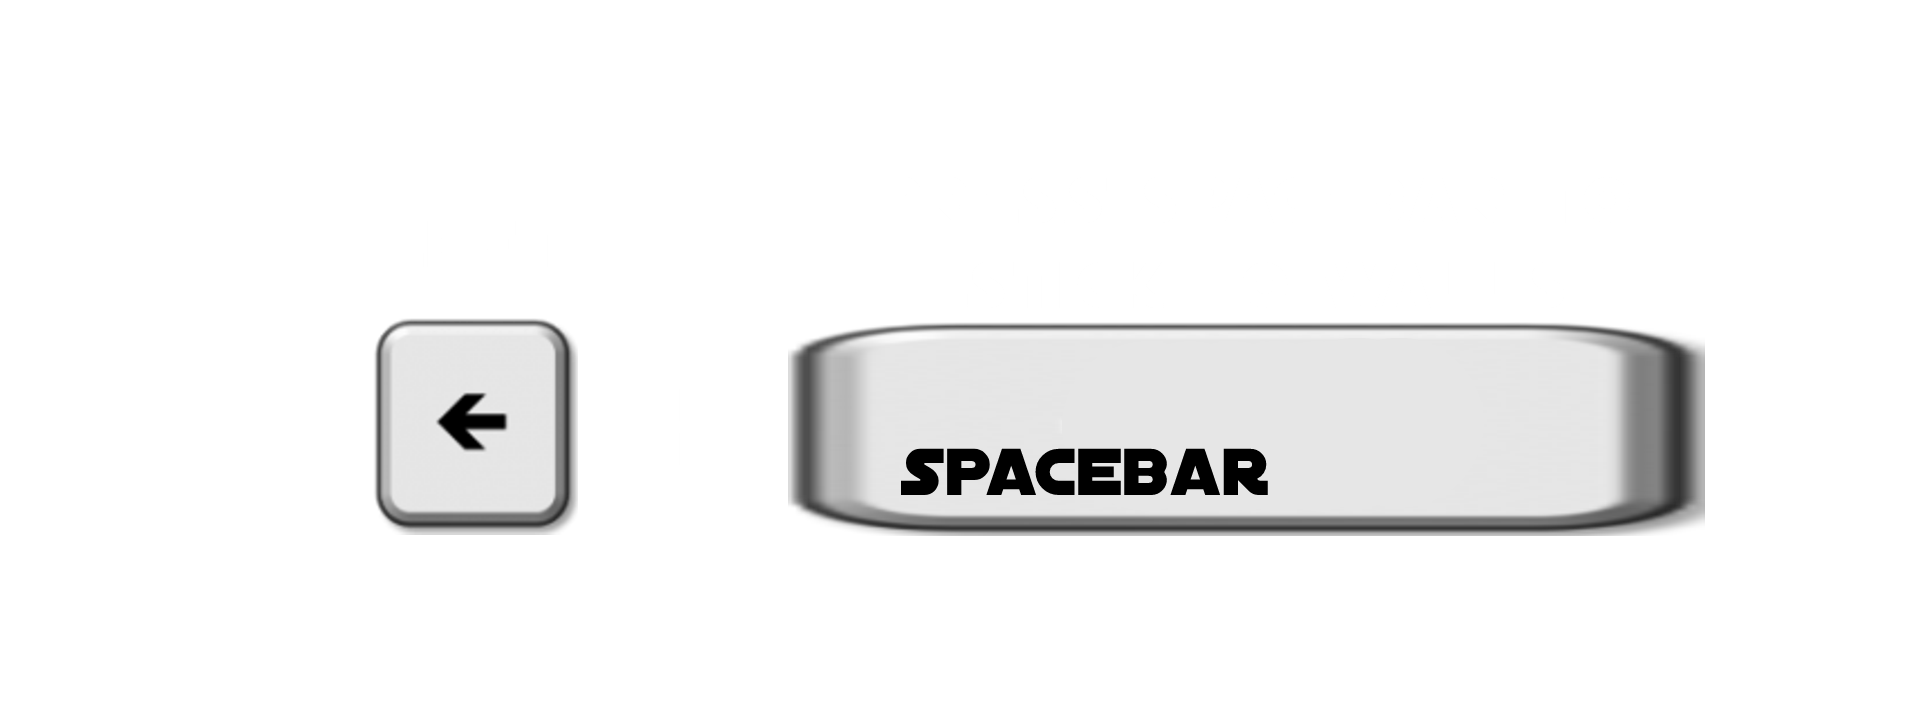
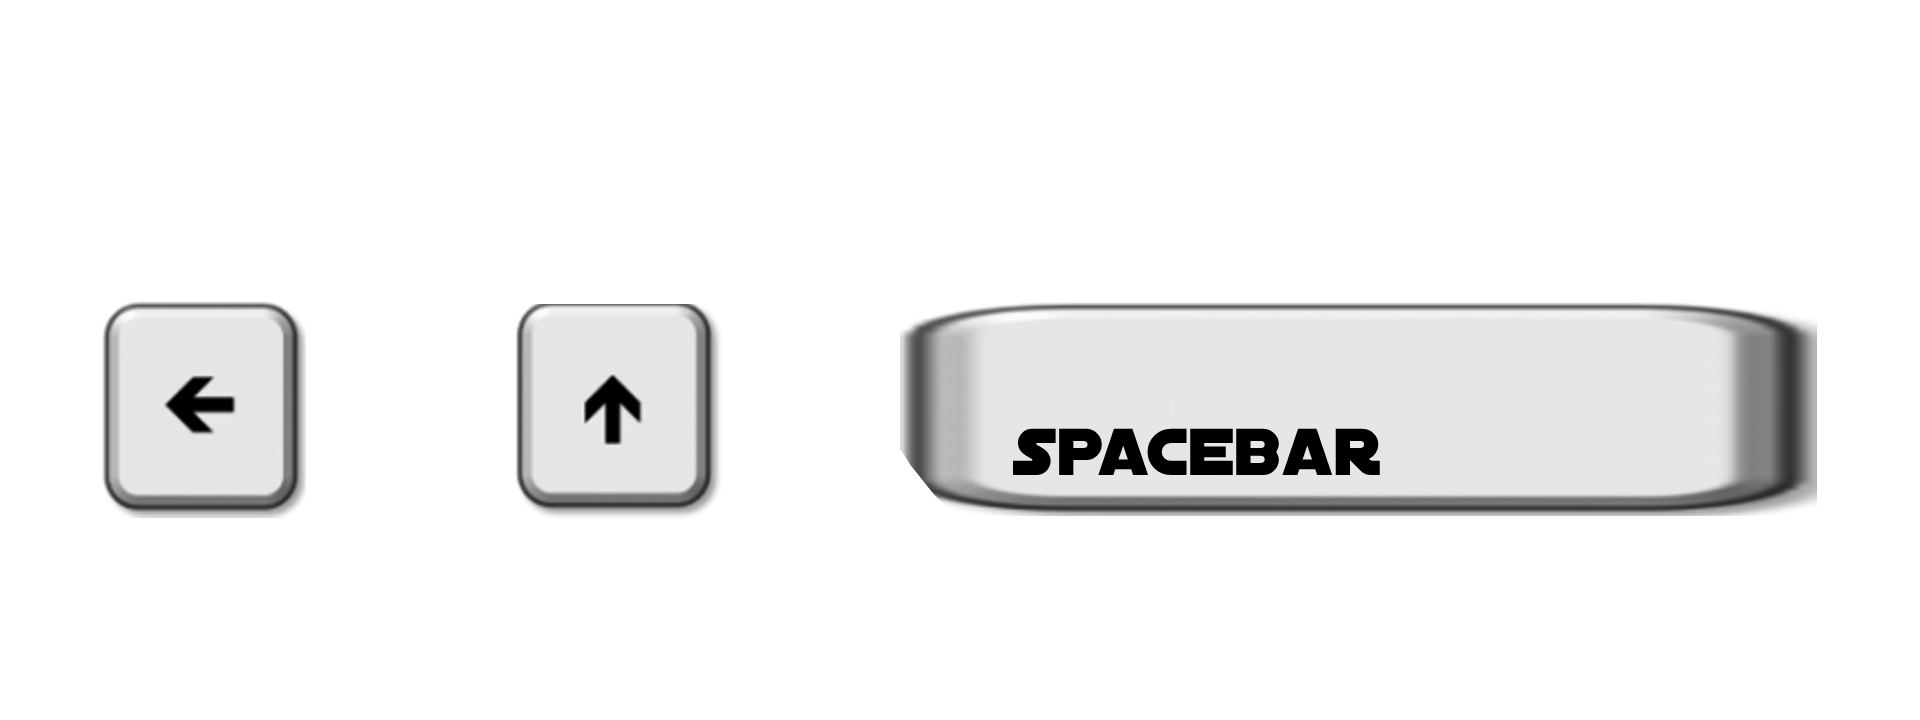
changes to tutorial level

Changed region(s): [[0.4062, 0.3972, 0.9688, 0.7639], [0.1875, 0.3972, 0.375, 0.7639], [0.0312, 0.3972, 0.1562, 0.7333]]

diff --git a/scripts/tutorial.js b/scripts/tutorial.js
@@ -37,6 +37,16 @@ preload(){
         this.load.image('spacebarInstructionsRight','assets/spacebarInstructionsRight.png');
         this.load.image('spacebarMoveUpInstructions','assets/spacebarMoveUpInstructions.png');
         this.load.image('dustBunnyInstructions','assets/dustBunnyInstructions.png');
+        this.load.image('num1','assets/num1.png');
+        this.load.image('num2','assets/num2.png');
+        this.load.image('num3','assets/num3.png');
+        this.load.image('num4','assets/num4.png');
+        this.load.image('num5','assets/num5.png');
+        this.load.image('num6','assets/num6.png');
+        this.load.image('num7','assets/num7.png');
+        this.load.image('num8','assets/num8.png');
+        this.load.image('num9','assets/num9.png');
+        this.load.image('num10','assets/num10.png');
 }
     
 create(){
@@ -106,7 +116,7 @@ create(){
     
     //left climb
     platforms.create(0,1920,'vplatform_xl').setOrigin(0,0).setScale(0.5).refreshBody();
-    platforms.create(0,1580,'vplatform_xl').setOrigin(0,0).setScale(0.5).refreshBody();
+    platforms.create(0,1585,'vplatform_xl').setOrigin(0,0).setScale(0.5).refreshBody();
     
 
     //instruction labels throughout the level
@@ -115,7 +125,7 @@ create(){
     var spacebarIntro = this.physics.add.staticGroup();
     spacebarIntro.create(375,2430,'spacebarIntro').setScale(0.25);
     var stickInstructionsLeft = this.physics.add.staticGroup();
-    stickInstructionsLeft.create(250,1950,'stickInstructionsLeft').setScale(0.2);
+    stickInstructionsLeft.create(265,1950,'stickInstructionsLeft').setScale(0.2);
     var checkpointInstructions = this.physics.add.staticGroup();
     checkpointInstructions.create(110,1500,'checkpointInstructions').setScale(0.2);
     var portalInstructions = this.physics.add.staticGroup();
@@ -130,6 +140,25 @@ create(){
     spacebarMoveUpInstructions.create(625,2300,'spacebarMoveUpInstructions').setScale(0.15);
     var dustBunnyInstructions = this.physics.add.staticGroup();
     dustBunnyInstructions.create(475,1110,'dustBunnyInstructions').setScale(0.3);
+
+    var num1 = this.physics.add.staticGroup();
+    num1.create(140,2400,'num1').setScale(0.3);
+    var num2 = this.physics.add.staticGroup();
+    num2.create(375,2365,'num2').setScale(0.3);
+    var num3 = this.physics.add.staticGroup();
+    num3.create(552,2492,'num3').setScale(0.3);
+    var num4 = this.physics.add.staticGroup();
+    num4.create(555,2395,'num4').setScale(0.3);
+    var num5 = this.physics.add.staticGroup();
+    num5.create(470,2300,'num5').setScale(0.3);
+    var num6 = this.physics.add.staticGroup();
+    num6.create(380,1885,'num6').setScale(0.3);
+    var num7 = this.physics.add.staticGroup();
+    num7.create(45,1440,'num7').setScale(0.3);
+    var num8 = this.physics.add.staticGroup();
+    num8.create(385,1430,'num8').setScale(0.3);
+    var num9 = this.physics.add.staticGroup();
+    num9.create(635,1765,'num9').setScale(0.3);
     
     //add player and set physics
     player = this.physics.add.sprite(60, 2480, 'player').setScale(0.25);
